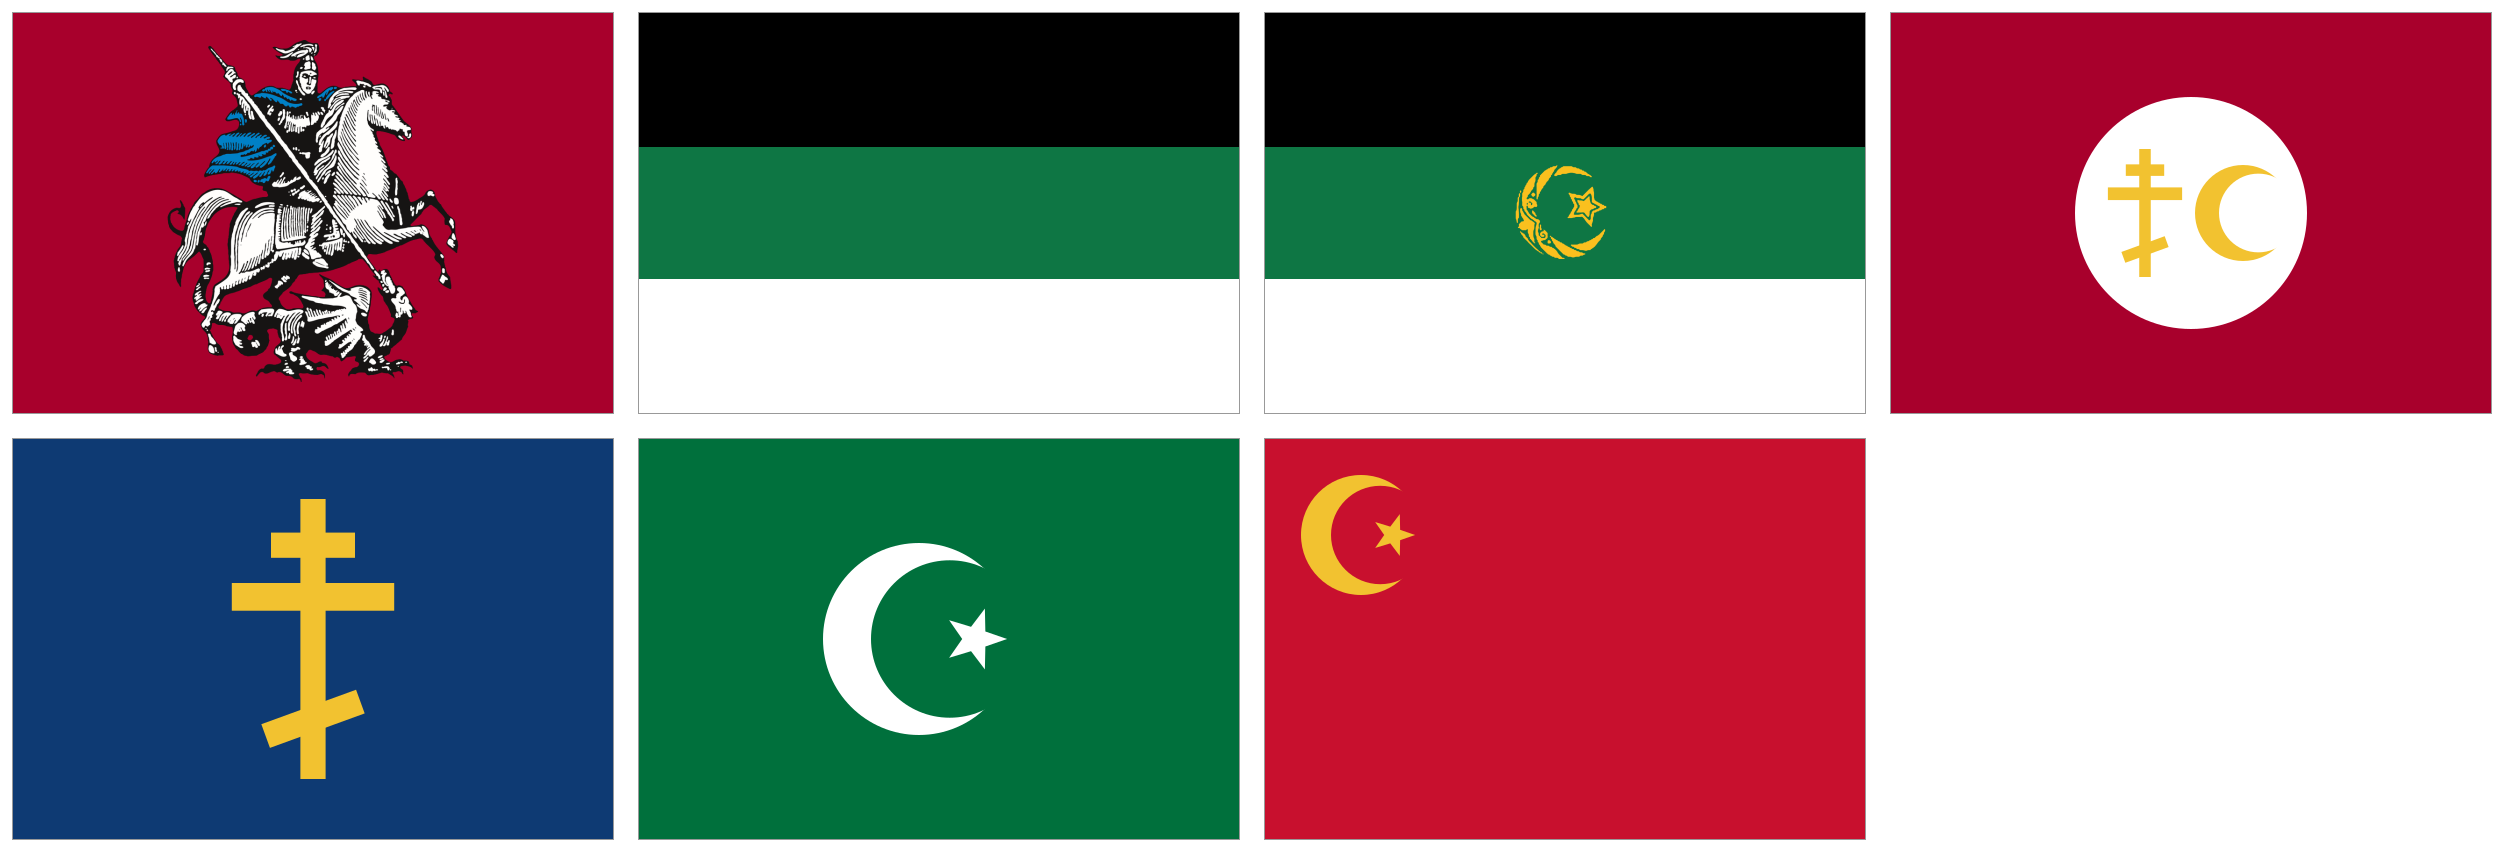
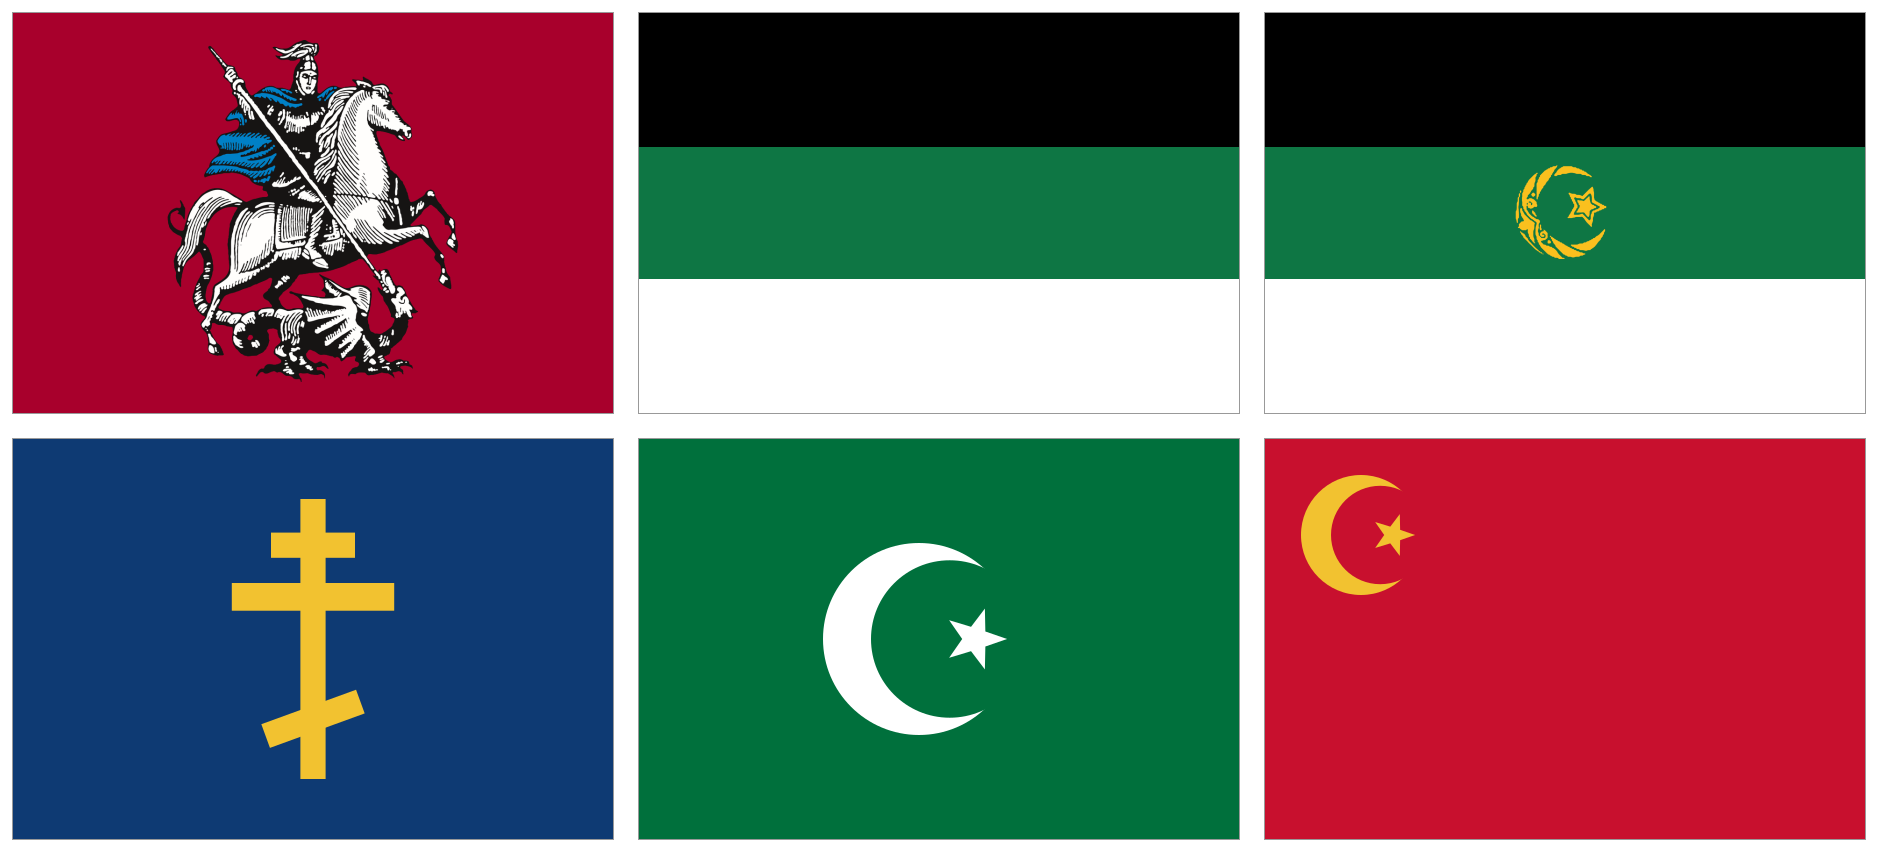
Moskwa: usunięta republika dwóch wiar
Claude-Session: https://claude.ai/code/session_01PNyJEgjZDVeUSFrp2WbnmN

diff --git a/gfx_koncepty/flagi_moskwa/generuj_flagi.py b/gfx_koncepty/flagi_moskwa/generuj_flagi.py
@@ -38,9 +38,6 @@ F={
  '2_republika': svg('<rect width="300" height="67" fill="#000000"/><rect y="67" width="300" height="66" fill="#0e7644"/><rect y="133" width="300" height="67" fill="#ffffff"/>'),
  # Republika islamska (gdy islam weźmie górę): ta sama trójbarwa ze złotym, zdobionym półksiężycem i gwiazdą (wzór od autora moda)
  '2b_republika_islamska': svg('<rect width="300" height="67" fill="#000000"/><rect y="67" width="300" height="66" fill="#0e7644"/><rect y="133" width="300" height="67" fill="#ffffff"/>'+maska(PKO,PKW,PKH,148,99.5,47,'#fac01e','pko')),
- # Republika dwóch wiar (wariant): karmazyn, na środku białe koło, w nim złoty krzyż i złoty półksiężyc obok siebie (dwie wiary jako równe)
- '2c_republika_dwoch_wiar': svg(f'<rect width="300" height="200" fill="{CRIM}"/><circle cx="150" cy="100" r="58" fill="{WHITE}"/>'
-                    +krzyz_prawoslawny(127,68,64,GOLD)+polksiezyc(176,100,24,GOLD,WHITE)),
  # Teokracja prawosławna (metropolita moskiewski): granat z płaszcza Jerzego, złoty krzyż ośmioramienny
  '3a_teokracja_prawoslawna': svg(f'<rect width="300" height="200" fill="{NAVY}"/>'+krzyz_prawoslawny(150,30,140,GOLD)),
  # Teokracja islamska (rządy ulemów z Kazania, chanat): zieleń, biały półksiężyc i gwiazda

diff --git a/gfx_koncepty/flagi_moskwa/README.md b/gfx_koncepty/flagi_moskwa/README.md
@@ -9,7 +9,6 @@ Moskwa: pozostałość Złotej Ordy, z prawosławnym zachodem i zislamizowanym w
 | 1_ksiestwo | Wielkie Księstwo (start): karmazyn z Jerzym (wzór od autora moda) |
 | 2_republika | Republika świecka: czerń, zieleń i biel (wzór od autora moda bez półksiężyca) |
 | 2b_republika_islamska | Republika islamska (gdy islam weźmie górę): ta sama trójbarwa ze złotym, zdobionym półksiężycem i gwiazdą ([../emblematy/polksiezyc_ozdobny_maska.png](../emblematy/polksiezyc_ozdobny_maska.png), wzór od autora moda) |
-| 2c_republika_dwoch_wiar | Republika dwóch wiar (wariant): karmazyn, białe koło ze złotym krzyżem i złotym półksiężycem obok siebie |
 | 3a_teokracja_prawoslawna | Teokracja prawosławna (metropolita moskiewski): granat ze złotym krzyżem ośmioramiennym |
 | 3b_teokracja_islamska | Teokracja islamska (ulemowie z Kazania, chanat): zieleń z białym półksiężycem i gwiazdą |
 | 4_rewolucja | Rewolucja: czerwień, w rogu złoty półksiężyc z gwiazdą (półksiężyc jak sierp, wspólny znak Rusinów i Tatarów) |
